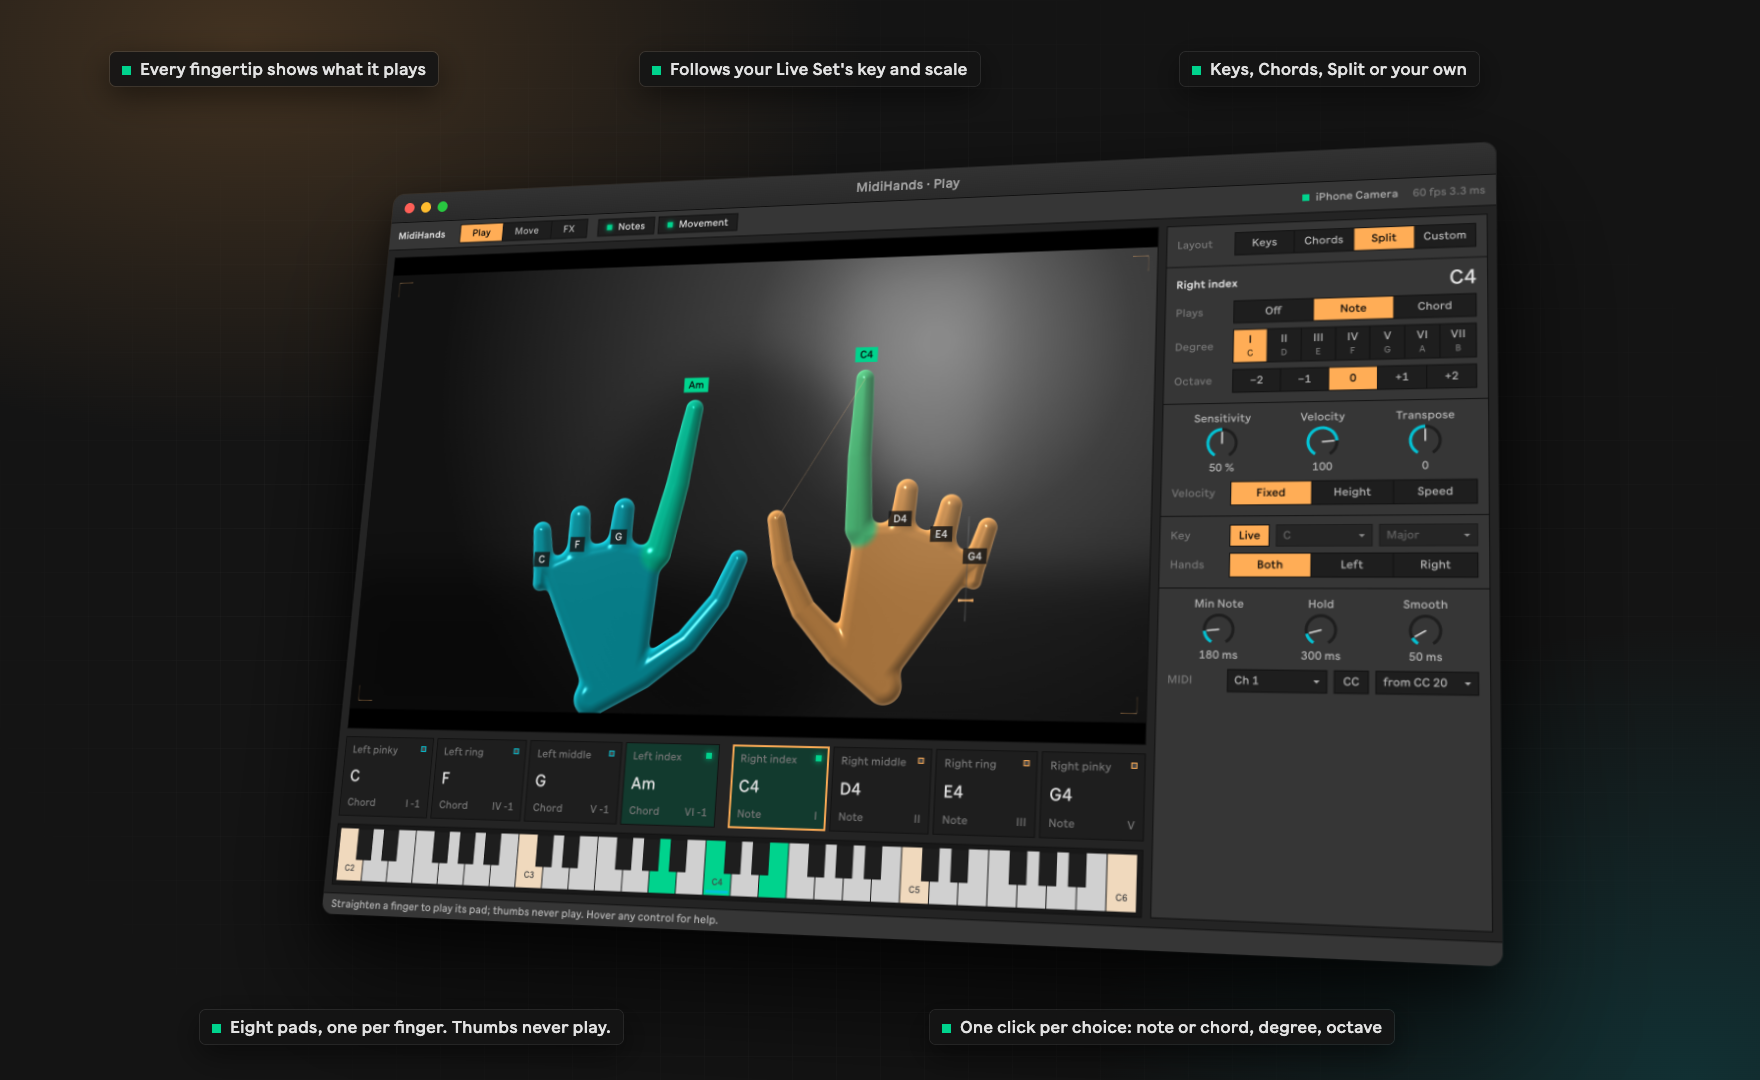
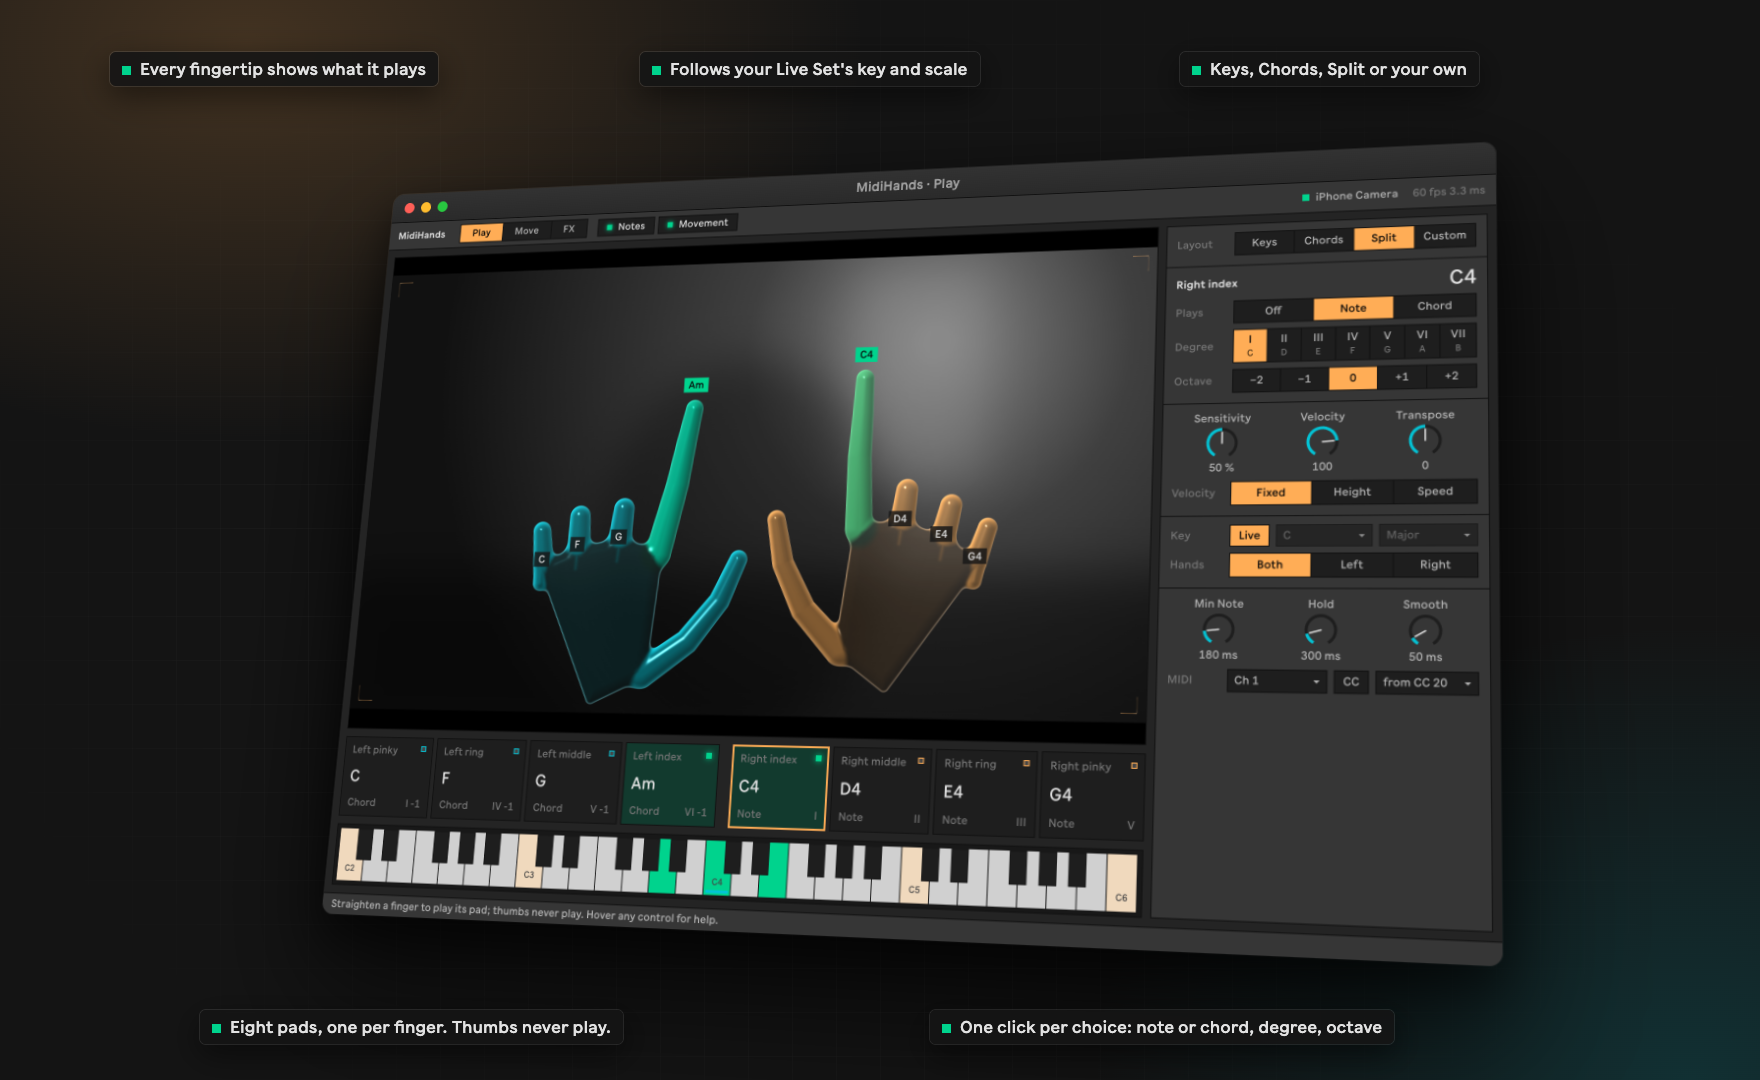
fix: jelly palm as a faint membrane; thumb from its base; no cues on Play
On a real camera the filled palm read as a flat orange slab over the
hand, and the thumb began with a thick bar from the wrist.

- The palm is now a faint glass membrane with a thin bright edge, so
  the real palm shows; fingers stay slim glass tubes.
- The thumb starts at its base joint (CMC), not the wrist.
- Gesture cues (pinch band, sliders, fist and tilt gauges) only on the
  FX page and in the video window; on Play the tilt gauge looked like a
  dark smudge in the palm.

Claude-Session: https://claude.ai/code/session_01Lv8F25mHrKPNLjGZjr72Lo

Changed region(s): [[0.4062, 0.4583, 0.5625, 0.6722], [0.2812, 0.4583, 0.4062, 0.6722]]

diff --git a/package/javascript/mh-gl.js b/package/javascript/mh-gl.js
@@ -117,9 +117,9 @@ uniform float u_palmR, u_k, u_R;
 uniform vec3 u_color, u_highlight, u_play;
 uniform float u_alpha, u_time, u_phase;
 out vec4 o;
-// Fingers: thumb from the wrist, then index to pinky from their knuckles.
-const int BA[16] = int[16](0, 1, 2, 3, 5, 6, 7, 9, 10, 11, 13, 14, 15, 17, 18, 19);
-const int BB[16] = int[16](1, 2, 3, 4, 6, 7, 8, 10, 11, 12, 14, 15, 16, 18, 19, 20);
+// Fingers, three bones each: the thumb from its base joint, the others from their knuckles.
+const int BA[15] = int[15](1, 2, 3, 5, 6, 7, 9, 10, 11, 13, 14, 15, 17, 18, 19);
+const int BB[15] = int[15](2, 3, 4, 6, 7, 8, 10, 11, 12, 14, 15, 16, 18, 19, 20);
 const int PALM[6] = int[6](0, 1, 5, 9, 13, 17);
 float cro(vec2 a, vec2 b) { return a.x * b.y - a.y * b.x; }
 // A capsule whose radius changes from ra to rb (Inigo Quilez).
@@ -152,27 +152,25 @@ float palm(vec2 p) {
   return s * sqrt(d);
 }
 float smin(float a, float b, float k) { float h = max(k - abs(a - b), 0.0) / k; return min(a, b) - h * h * k * 0.25; }
-// x: distance (px, negative inside), y: how much a playing finger tints this point.
+// x: distance (px, negative inside), y: how much a playing finger tints this point,
+// z: how much this point is palm rather than finger (the palm is only a faint membrane).
 // The segments of a finger join plainly (no bulging joints); only fingers and palm blend.
-vec2 scene(vec2 p) {
-  float d = palm(p) - u_palmR * 0.2, on = 0.0;
-  int bone = 0;
+vec3 scene(vec2 p) {
+  float dp = palm(p) - u_palmR * 0.25, d = dp, fingers = 1e9, on = 0.0;
   for (int f = 0; f < 5; f++) {
-    int count = f == 0 ? 4 : 3;
     float df = 1e9;
-    for (int k = 0; k < 4; k++) {
-      if (k >= count) break;
-      int a = BA[bone], b = BB[bone];
-      df = min(df, taper(p, u_joint[a], u_joint[b], u_jointR[a], u_jointR[b]));
-      bone++;
+    for (int k = 0; k < 3; k++) {
+      int i = f * 3 + k;
+      df = min(df, taper(p, u_joint[BA[i]], u_joint[BB[i]], u_jointR[BA[i]], u_jointR[BB[i]]));
     }
-    on = max(on, u_jointOn[BB[bone - 1]] * (1.0 - smoothstep(-2.0, u_k, df)));
+    on = max(on, u_jointOn[BB[f * 3 + 2]] * (1.0 - smoothstep(-2.0, u_k, df)));
+    fingers = min(fingers, df);
     d = smin(d, df, u_k);
   }
-  return vec2(d, on);
+  return vec3(d, on, smoothstep(-u_k * 0.5, u_k * 0.5, fingers - max(dp, -u_k)));
 }
 void main() {
-  vec2 s = scene(v_px);
+  vec3 s = scene(v_px);
   float body = clamp(0.5 - s.x, 0.0, 1.0);             // 1 px soft edge
   if (body <= 0.0) discard;
   float R = max(u_R, 2.0);                              // one thickness for the whole hand: no seams
@@ -191,10 +189,15 @@ void main() {
   float sheen = 0.75 + 0.25 * sin(dot(v_px, vec2(0.018, 0.031)) - u_time * 1.3 + u_phase * 6.28318);
   vec3 base = mix(u_color, u_play, s.y * 0.7);
   vec3 c = base * (0.5 + 0.6 * diffuse) + u_highlight * (spec * 0.85 * sheen + fresnel * 0.3);
-  // Glass: clear inside, solid at the rim; a playing finger fills up.
+  // Glass: fingers clear inside and solid at the rim, a playing finger fills up; the
+  // palm only a faint membrane with a thin bright edge, so the real palm shows.
   float rim = 1.0 - smoothstep(0.0, 0.45, t);
-  float a = u_alpha * body * mix(0.72, 1.0, max(rim, s.y * 0.6));
-  a = clamp(a + spec * 0.3, 0.0, 1.0);
+  float fingerA = mix(0.55, 1.0, max(rim, s.y * 0.7));
+  float edge = 1.0 - smoothstep(0.0, 1.5 + R * 0.12, -s.x);
+  float palmA = mix(0.12, 0.7, edge);
+  c = mix(c, mix(c, u_highlight, 0.35), s.z * edge);
+  float a = u_alpha * body * mix(fingerA, palmA, s.z);
+  a = clamp(a + spec * 0.3 * (1.0 - s.z * 0.7), 0.0, 1.0);
   o = vec4(c * a, a);
 }`;
 
@@ -426,7 +429,7 @@ void main() {
           const sp = Math.max((dist(5, 9) + dist(9, 13) + dist(13, 17)) / 3, dist(0, 9) * 0.22, 3);
           const joints = new Float32Array(42), radii = new Float32Array(21), on = new Float32Array(21);
           // Wrist, thumb (CMC, MCP, IP, tip), then per finger: knuckle, middle joints, tip.
-          const thumb = [0.42, 0.36, 0.3, 0.26, 0.22], finger = [0.3, 0.26, 0.23, 0.2];
+          const thumb = [0.3, 0.34, 0.3, 0.26, 0.22], finger = [0.3, 0.26, 0.23, 0.2];
           let x0 = Infinity, y0 = Infinity, x1 = -Infinity, y1 = -Infinity;
           for (let i = 0; i < 21; i++) {
             const f = i <= 4 ? 0 : Math.floor((i - 1) / 4);

diff --git a/package/javascript/mh-editor.html b/package/javascript/mh-editor.html
@@ -979,7 +979,7 @@ function cueList() {
 function renderPicture(fxPage, time) {
   const hands = S.drawn.map((h) => h && { pts: h.pts, on: h.on.map((v, f) => !!(v && (fxPage || P.notes))) });
   Object.assign(R.options, {
-    look: LOOKS[P.vlook] || "jelly", theme: THEMES[P.vtheme] || "live", cues: cueList(),
+    look: LOOKS[P.vlook] || "jelly", theme: THEMES[P.vtheme] || "live", cues: fxPage ? cueList() : [],   // Play shows notes, not cues
     camera: fxPage ? P.vcam : 0.6, grade: fxPage ? "none" : "play", fxOnHands: !!P.vfxh,
     aspect: fxPage ? MHFX.FORMATS[P.vfmt] || 0 : 0, brackets: !!P.vcues,
   });
